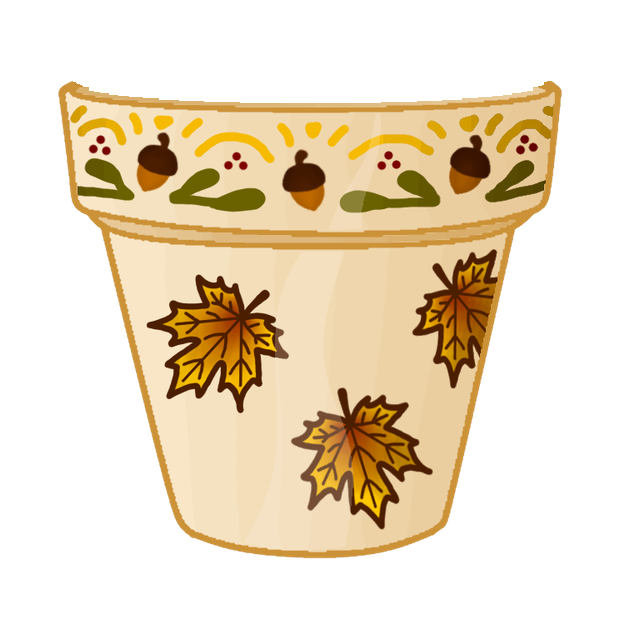
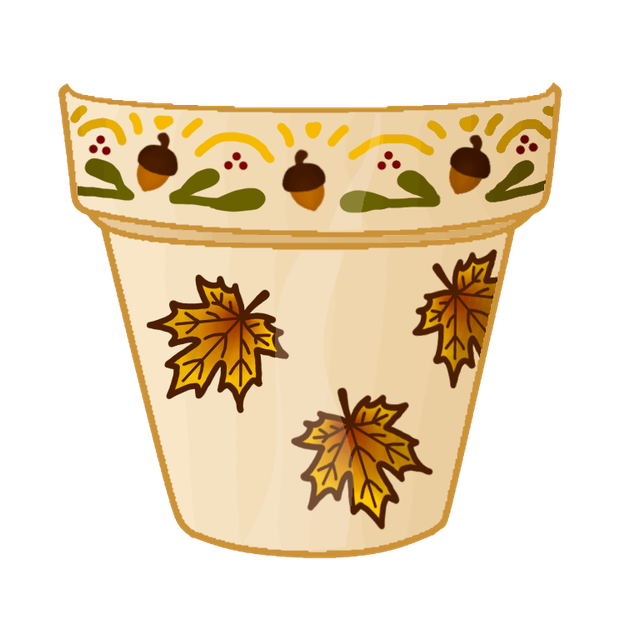
Falling leaves pot: the founder's own front overlay
Replaces the one cut from the terra cotta template. Bumped the art
version so browsers fetch it.

Claude-Session: https://claude.ai/code/session_01AKYuNggPa5w9iRuLumobCr

Changed region(s): [[0.0938, 0.125, 0.75, 0.1875], [0.75, 0.125, 0.875, 0.1562]]

diff --git a/profile.html b/profile.html
@@ -24,8 +24,8 @@
   <meta name="twitter:card" content="summary_large_image" />
   <link rel="preconnect" href="https://fonts.googleapis.com" />
   <link href="https://fonts.googleapis.com/css2?family=Fraunces:wght@500;600&family=Work+Sans:wght@400;500;600&display=swap" rel="stylesheet" />
-  <link rel="stylesheet" href="style.css?v=183" />
-  <script src="a11y.js?v=183"></script>
+  <link rel="stylesheet" href="style.css?v=184" />
+  <script src="a11y.js?v=184"></script>
 </head>
 <body>
   <header class="site-header">
@@ -76,14 +76,14 @@
     <section id="profile-posts" class="feed"><p class="feed-empty is-loading">Loading…</p></section>
   </main>
   <script src="https://cdn.jsdelivr.net/npm/@supabase/supabase-js@2"></script>
-  <script src="supabase-client.js?v=183"></script>
-  <script src="profile-fields.js?v=183"></script>
-  <script src="nav-menu.js?v=183"></script>
-  <script src="ui.js?v=183"></script>
-  <script src="drift.js?v=183"></script>
-  <script src="edit-forms.js?v=183"></script>
-  <script src="biome.js?v=183"></script>
-  <script src="report.js?v=183"></script>
-  <script src="profile.js?v=183"></script>
+  <script src="supabase-client.js?v=184"></script>
+  <script src="profile-fields.js?v=184"></script>
+  <script src="nav-menu.js?v=184"></script>
+  <script src="ui.js?v=184"></script>
+  <script src="drift.js?v=184"></script>
+  <script src="edit-forms.js?v=184"></script>
+  <script src="biome.js?v=184"></script>
+  <script src="report.js?v=184"></script>
+  <script src="profile.js?v=184"></script>
 </body>
 </html>

diff --git a/reviews.html b/reviews.html
@@ -24,8 +24,8 @@
   <meta name="twitter:card" content="summary_large_image" />
   <link rel="preconnect" href="https://fonts.googleapis.com" />
   <link href="https://fonts.googleapis.com/css2?family=Fraunces:wght@500;600&family=Work+Sans:wght@400;500;600&display=swap" rel="stylesheet" />
-  <link rel="stylesheet" href="style.css?v=183" />
-  <script src="a11y.js?v=183"></script>
+  <link rel="stylesheet" href="style.css?v=184" />
+  <script src="a11y.js?v=184"></script>
 </head>
 <body data-biome="forest" data-beta-banner>
   <header class="site-header">
@@ -164,14 +164,14 @@
     </section>
   </main>
   <script src="https://cdn.jsdelivr.net/npm/@supabase/supabase-js@2"></script>
-  <script src="supabase-client.js?v=183"></script>
-  <script src="profile-fields.js?v=183"></script>
-  <script src="nav-menu.js?v=183"></script>
-  <script src="ui.js?v=183"></script>
-  <script src="drift.js?v=183"></script>
-  <script src="edit-forms.js?v=183"></script>
-  <script src="report.js?v=183"></script>
-  <script src="product-match.js?v=183"></script>
-  <script src="reviews.js?v=183"></script>
+  <script src="supabase-client.js?v=184"></script>
+  <script src="profile-fields.js?v=184"></script>
+  <script src="nav-menu.js?v=184"></script>
+  <script src="ui.js?v=184"></script>
+  <script src="drift.js?v=184"></script>
+  <script src="edit-forms.js?v=184"></script>
+  <script src="report.js?v=184"></script>
+  <script src="product-match.js?v=184"></script>
+  <script src="reviews.js?v=184"></script>
 </body>
 </html>

diff --git a/feed.html b/feed.html
@@ -25,8 +25,8 @@
 
   <link rel="preconnect" href="https://fonts.googleapis.com" />
   <link href="https://fonts.googleapis.com/css2?family=Fraunces:wght@500;600&family=Work+Sans:wght@400;500;600&display=swap" rel="stylesheet" />
-  <link rel="stylesheet" href="style.css?v=183" />
-  <script src="a11y.js?v=183"></script>
+  <link rel="stylesheet" href="style.css?v=184" />
+  <script src="a11y.js?v=184"></script>
 </head>
 <body data-biome="forest" data-beta-banner>
 
@@ -95,15 +95,15 @@
   </main>
 
   <script src="https://cdn.jsdelivr.net/npm/@supabase/supabase-js@2"></script>
-  <script src="supabase-client.js?v=183"></script>
-  <script src="profile-fields.js?v=183"></script>
-  <script src="nav-menu.js?v=183"></script>
-  <script src="ui.js?v=183"></script>
-  <script src="drift.js?v=183"></script>
-  <script src="daily.js?v=183"></script>
-  <script src="edit-forms.js?v=183"></script>
-  <script src="report.js?v=183"></script>
-  <script src="polls.js?v=183"></script>
-  <script src="feed.js?v=183"></script>
+  <script src="supabase-client.js?v=184"></script>
+  <script src="profile-fields.js?v=184"></script>
+  <script src="nav-menu.js?v=184"></script>
+  <script src="ui.js?v=184"></script>
+  <script src="drift.js?v=184"></script>
+  <script src="daily.js?v=184"></script>
+  <script src="edit-forms.js?v=184"></script>
+  <script src="report.js?v=184"></script>
+  <script src="polls.js?v=184"></script>
+  <script src="feed.js?v=184"></script>
 </body>
 </html>

diff --git a/events.html b/events.html
@@ -24,8 +24,8 @@
   <meta name="twitter:card" content="summary_large_image" />
   <link rel="preconnect" href="https://fonts.googleapis.com" />
   <link href="https://fonts.googleapis.com/css2?family=Fraunces:wght@500;600&family=Work+Sans:wght@400;500;600&display=swap" rel="stylesheet" />
-  <link rel="stylesheet" href="style.css?v=183" />
-  <script src="a11y.js?v=183"></script>
+  <link rel="stylesheet" href="style.css?v=184" />
+  <script src="a11y.js?v=184"></script>
 </head>
 <body>
   <header class="site-header">
@@ -45,11 +45,11 @@
     </div>
   </main>
   <script src="https://cdn.jsdelivr.net/npm/@supabase/supabase-js@2"></script>
-  <script src="supabase-client.js?v=183"></script>
-  <script src="nav-menu.js?v=183"></script>
-  <script src="ui.js?v=183"></script>
-  <script src="drift.js?v=183"></script>
-  <script src="biome.js?v=183"></script>
-  <script src="events.js?v=183"></script>
+  <script src="supabase-client.js?v=184"></script>
+  <script src="nav-menu.js?v=184"></script>
+  <script src="ui.js?v=184"></script>
+  <script src="drift.js?v=184"></script>
+  <script src="biome.js?v=184"></script>
+  <script src="events.js?v=184"></script>
 </body>
 </html>

diff --git a/moderate-products.html b/moderate-products.html
@@ -25,8 +25,8 @@
 
   <link rel="preconnect" href="https://fonts.googleapis.com" />
   <link href="https://fonts.googleapis.com/css2?family=Fraunces:wght@500;600&family=Work+Sans:wght@400;500;600&display=swap" rel="stylesheet" />
-  <link rel="stylesheet" href="style.css?v=183" />
-  <script src="a11y.js?v=183"></script>
+  <link rel="stylesheet" href="style.css?v=184" />
+  <script src="a11y.js?v=184"></script>
 </head>
 <body>
 
@@ -203,11 +203,11 @@
   </main>
 
   <script src="https://cdn.jsdelivr.net/npm/@supabase/supabase-js@2"></script>
-  <script src="supabase-client.js?v=183"></script>
-  <script src="profile-fields.js?v=183"></script>
-  <script src="nav-menu.js?v=183"></script>
-  <script src="ui.js?v=183"></script>
-  <script src="product-match.js?v=183"></script>
-  <script src="moderate-products.js?v=183"></script>
+  <script src="supabase-client.js?v=184"></script>
+  <script src="profile-fields.js?v=184"></script>
+  <script src="nav-menu.js?v=184"></script>
+  <script src="ui.js?v=184"></script>
+  <script src="product-match.js?v=184"></script>
+  <script src="moderate-products.js?v=184"></script>
 </body>
 </html>

diff --git a/faq.html b/faq.html
@@ -26,8 +26,8 @@
   <meta name="twitter:card" content="summary_large_image" />
   <link rel="preconnect" href="https://fonts.googleapis.com" />
   <link href="https://fonts.googleapis.com/css2?family=Fraunces:wght@500;600&family=Work+Sans:wght@400;500;600&display=swap" rel="stylesheet" />
-  <link rel="stylesheet" href="style.css?v=183" />
-  <script src="a11y.js?v=183"></script>
+  <link rel="stylesheet" href="style.css?v=184" />
+  <script src="a11y.js?v=184"></script>
   <!-- For search engines: what this page is -->
   <script type="application/ld+json">
 {
@@ -285,8 +285,8 @@
     <p class="faq-more">Ready to join? <a class="inline-link" href="signup.html">Sign up for free</a>, or <a class="inline-link" href="reviews.html">browse reviews</a> first.</p>
   </main>
   <script src="https://cdn.jsdelivr.net/npm/@supabase/supabase-js@2"></script>
-  <script src="supabase-client.js?v=183"></script>
-  <script src="nav-menu.js?v=183"></script>
-  <script src="ui.js?v=183"></script>
+  <script src="supabase-client.js?v=184"></script>
+  <script src="nav-menu.js?v=184"></script>
+  <script src="ui.js?v=184"></script>
 </body>
 </html>

diff --git a/index.html b/index.html
@@ -28,8 +28,8 @@
   <link href="https://fonts.googleapis.com/css2?family=Fraunces:wght@500;600&family=Work+Sans:wght@400;500;600&display=swap" rel="stylesheet" />
 
   <!-- Our own stylesheet, kept in a separate file -->
-  <link rel="stylesheet" href="style.css?v=183" />
-  <script src="a11y.js?v=183"></script>
+  <link rel="stylesheet" href="style.css?v=184" />
+  <script src="a11y.js?v=184"></script>
   <link rel="canonical" href="https://byome.xyz/" />
   <!-- For search engines: the site's name, and who runs it -->
   <script type="application/ld+json">
@@ -126,10 +126,10 @@
   </footer>
 
   <script src="https://cdn.jsdelivr.net/npm/@supabase/supabase-js@2"></script>
-  <script src="supabase-client.js?v=183"></script>
-  <script src="nav-menu.js?v=183"></script>
-  <script src="ui.js?v=183"></script>
-  <script src="daily.js?v=183"></script>
-  <script src="home.js?v=183"></script>
+  <script src="supabase-client.js?v=184"></script>
+  <script src="nav-menu.js?v=184"></script>
+  <script src="ui.js?v=184"></script>
+  <script src="daily.js?v=184"></script>
+  <script src="home.js?v=184"></script>
 </body>
 </html>

diff --git a/about.html b/about.html
@@ -26,8 +26,8 @@
   <meta name="twitter:card" content="summary_large_image" />
   <link rel="preconnect" href="https://fonts.googleapis.com" />
   <link href="https://fonts.googleapis.com/css2?family=Fraunces:wght@500;600&family=Work+Sans:wght@400;500;600&display=swap" rel="stylesheet" />
-  <link rel="stylesheet" href="style.css?v=183" />
-  <script src="a11y.js?v=183"></script>
+  <link rel="stylesheet" href="style.css?v=184" />
+  <script src="a11y.js?v=184"></script>
   <!-- For search engines: what this page is -->
   <script type="application/ld+json">
 {
@@ -109,8 +109,8 @@
     <p class="faq-more"><a class="btn btn-solid" href="signup.html">Join Byome for free</a> <a class="btn btn-ghost" href="reviews.html">Browse reviews</a></p>
   </main>
   <script src="https://cdn.jsdelivr.net/npm/@supabase/supabase-js@2"></script>
-  <script src="supabase-client.js?v=183"></script>
-  <script src="nav-menu.js?v=183"></script>
-  <script src="ui.js?v=183"></script>
+  <script src="supabase-client.js?v=184"></script>
+  <script src="nav-menu.js?v=184"></script>
+  <script src="ui.js?v=184"></script>
 </body>
 </html>

diff --git a/edit-profile.html b/edit-profile.html
@@ -24,8 +24,8 @@
   <meta name="twitter:card" content="summary_large_image" />
   <link rel="preconnect" href="https://fonts.googleapis.com" />
   <link href="https://fonts.googleapis.com/css2?family=Fraunces:wght@500;600&family=Work+Sans:wght@400;500;600&display=swap" rel="stylesheet" />
-  <link rel="stylesheet" href="style.css?v=183" />
-  <script src="a11y.js?v=183"></script>
+  <link rel="stylesheet" href="style.css?v=184" />
+  <script src="a11y.js?v=184"></script>
 </head>
 <body>
   <header class="site-header">
@@ -110,10 +110,10 @@
   </main>
 
   <script src="https://cdn.jsdelivr.net/npm/@supabase/supabase-js@2"></script>
-  <script src="supabase-client.js?v=183"></script>
-  <script src="profile-fields.js?v=183"></script>
-  <script src="nav-menu.js?v=183"></script>
-  <script src="ui.js?v=183"></script>
-  <script src="edit-profile.js?v=183"></script>
+  <script src="supabase-client.js?v=184"></script>
+  <script src="profile-fields.js?v=184"></script>
+  <script src="nav-menu.js?v=184"></script>
+  <script src="ui.js?v=184"></script>
+  <script src="edit-profile.js?v=184"></script>
 </body>
 </html>

diff --git a/reset-password.html b/reset-password.html
@@ -25,8 +25,8 @@
 
   <link rel="preconnect" href="https://fonts.googleapis.com" />
   <link href="https://fonts.googleapis.com/css2?family=Fraunces:wght@500;600&family=Work+Sans:wght@400;500;600&display=swap" rel="stylesheet" />
-  <link rel="stylesheet" href="style.css?v=183" />
-  <script src="a11y.js?v=183"></script>
+  <link rel="stylesheet" href="style.css?v=184" />
+  <script src="a11y.js?v=184"></script>
   <!-- Note what the email link said before Supabase tidies the address bar -->
   <script>window.resetLinkParams = window.location.hash.slice(1) + "&" + window.location.search.slice(1);</script>
 </head>
@@ -75,9 +75,9 @@
   </main>
 
   <script src="https://cdn.jsdelivr.net/npm/@supabase/supabase-js@2"></script>
-  <script src="supabase-client.js?v=183"></script>
-  <script src="nav-menu.js?v=183"></script>
-  <script src="ui.js?v=183"></script>
-  <script src="reset-password.js?v=183"></script>
+  <script src="supabase-client.js?v=184"></script>
+  <script src="nav-menu.js?v=184"></script>
+  <script src="ui.js?v=184"></script>
+  <script src="reset-password.js?v=184"></script>
 </body>
 </html>

diff --git a/byome-shop.html b/byome-shop.html
@@ -25,8 +25,8 @@
 
   <link rel="preconnect" href="https://fonts.googleapis.com" />
   <link href="https://fonts.googleapis.com/css2?family=Fraunces:wght@500;600&family=Work+Sans:wght@400;500;600&display=swap" rel="stylesheet" />
-  <link rel="stylesheet" href="style.css?v=183" />
-  <script src="a11y.js?v=183"></script>
+  <link rel="stylesheet" href="style.css?v=184" />
+  <script src="a11y.js?v=184"></script>
 </head>
 <body>
 
@@ -56,11 +56,11 @@
   </main>
 
   <script src="https://cdn.jsdelivr.net/npm/@supabase/supabase-js@2"></script>
-  <script src="supabase-client.js?v=183"></script>
-  <script src="nav-menu.js?v=183"></script>
-  <script src="ui.js?v=183"></script>
-  <script src="drift.js?v=183"></script>
-  <script src="biome.js?v=183"></script>
-  <script src="biome-shop.js?v=183"></script>
+  <script src="supabase-client.js?v=184"></script>
+  <script src="nav-menu.js?v=184"></script>
+  <script src="ui.js?v=184"></script>
+  <script src="drift.js?v=184"></script>
+  <script src="biome.js?v=184"></script>
+  <script src="biome-shop.js?v=184"></script>
 </body>
 </html>

diff --git a/signup.html b/signup.html
@@ -25,8 +25,8 @@
 
   <link rel="preconnect" href="https://fonts.googleapis.com" />
   <link href="https://fonts.googleapis.com/css2?family=Fraunces:wght@500;600&family=Work+Sans:wght@400;500;600&display=swap" rel="stylesheet" />
-  <link rel="stylesheet" href="style.css?v=183" />
-  <script src="a11y.js?v=183"></script>
+  <link rel="stylesheet" href="style.css?v=184" />
+  <script src="a11y.js?v=184"></script>
 </head>
 <body>
 
@@ -82,11 +82,11 @@
   <!-- Supabase's own code library, loaded from their servers -->
   <script src="https://cdn.jsdelivr.net/npm/@supabase/supabase-js@2"></script>
   <!-- Our shared connection setup -->
-  <script src="supabase-client.js?v=183"></script>
+  <script src="supabase-client.js?v=184"></script>
   <!-- Hamburger menu behavior -->
-  <script src="nav-menu.js?v=183"></script>
-  <script src="ui.js?v=183"></script>
+  <script src="nav-menu.js?v=184"></script>
+  <script src="ui.js?v=184"></script>
   <!-- The logic specific to this page -->
-  <script src="signup.js?v=183"></script>
+  <script src="signup.js?v=184"></script>
 </body>
 </html>
